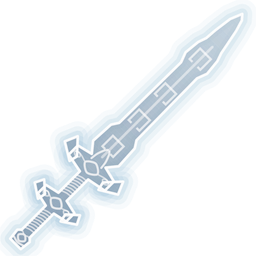
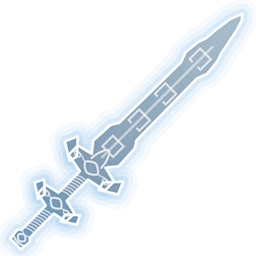
Call of Valor: the visuals are DONE - blue through the hilt, colour matched by measurement
The user's sign-off: "I think we are done with the visuals (I pick A)". Variant A -
katana tip, short kissaki - is the weapon.

HIS BLUE THROUGH THE HILT. A gradient of C_AZURE, the aura's own colour on his
armour, from the pommel up to the second crossguard and fading to nothing there.
Smoothstepped, because a straight ramp to zero leaves a band edge exactly where
two pieces of furniture already meet and reads as a drawing seam. The blue is
darkened but NOT greyed - greying it would have cancelled the request before it
drew a pixel.

THEN THREE ROUNDS OF COLOUR, EVERY ONE SETTLED BY MEASURING THE TEXTURES RATHER
THAN BY ARGUING ABOUT THEM.

1. "More opaque." Raised 104 -> 196 -> 220. But the first correction, 152, was
   chosen to match the CUIRASS'S OWN CONSTANT and was wrong: measured, the sword
   came back 173 against the cuirass's 215. The cuirass is not one fill - plate
   body, pectoral domes, creases, lit lips, rim, four or five translucent passes
   accumulating - while the blade is essentially one. THE SHARED CONSTANT IS NOT
   THE SHARED APPEARANCE.

2. "Still too ghostly, use the chestplate's colour." Sampling found the cause,
   and it was a request of their own two rounds earlier: the GREY was doing it.

       chestplate  (159,195,220)   a proper pale steel-blue
       sword       (168,186,202)   flatter, redder, far less blue

   Desaturating a translucent object pushes it TOWARD the mid-tone of the ground
[…]

Changed region(s): [[0.0625, 0.0625, 0.9375, 0.9375]]

diff --git a/Mods/Dovahkiin/CHANGELOG.md b/Mods/Dovahkiin/CHANGELOG.md
@@ -1,5 +1,25 @@
 # CHANGELOG
 
+## Call of Valor: the hero's blue through the hilt (2026-07-31)
+
+A gradient of his blue from the pommel up to the **second crossguard**, fading to nothing there.
+The blade above keeps the grey steel. Two knobs: `$HILT_BLUE_MIX` 0.55 at the pommel,
+`$HILT_BLUE_END` 0.352 where it reaches zero.
+
+**The blue is darkened but NOT greyed, and that is the point of adding it.** `$GREY_MIX` is what
+pulled the weapon toward steel in the first place; putting the blue through it as well would cancel
+the request before it drew a pixel. It takes `$VALUE_MUL` only, so it sits in the same value range
+as everything around it and reads as more *colour* rather than as a brighter patch.
+
+**`C_AZURE` specifically** — the aura's own colour on his armour, the most saturated blue he
+carries. The hilt is quoting a part of him rather than a blue picked because it looked nice.
+
+**Smoothstepped, not linear.** A straight ramp to zero leaves a visible band edge exactly where two
+pieces of furniture already meet, and that reads as a drawing seam rather than as colour running
+out.
+
+---
+
 ## Call of Valor: variant A settled, and the palette handed over properly (2026-07-31)
 
 **Variant A is the weapon** — katana tip, short kissaki. Settled by the user; B (glaive) and C
@@ -49,13 +69,64 @@ lips, then a rim — four or five translucent layers accumulating over one anoth
 is essentially one. **The shared constant is not the shared appearance.** Two pieces match when
 their *composited* results match, and that can only be established on the finished art.
 
-At 196 the blade measures **206 against the plate's 215**, inside 4%. Still translucent: the ground
-reads through both.
+At 196 the blade measured **206 against the plate's 215**, inside 4%. The user then asked for a bit
+more still, so parity turned out to be the waypoint rather than the destination: **220**, measuring
+**225 against 215**, puts the weapon slightly *above* his armour. Defensible on its own terms — a
+blade is a forged object where the plate is a translucent overlay on a body.
 
-### Greyer and slightly darker, weapon only
+**Still translucent, and that is the floor this must not cross.** "You can see the ground through
+it" is the one thing none of the pre-2026-07-30 attempts managed and the whole reason this file was
+rebuilt from scratch. Measured after every change rather than assumed — 225 of a possible 255.
 
-Asked for in two steps — "a tiny bit of grey", then "slightly grey-darker" — and landing at
-`$GREY_MIX = 0.30` with `$VALUE_MUL = 0.88`.
+### The grey went in, then came back out — and measurement is what settled it
+
+Asked for in two steps, "a tiny bit of grey" then "slightly grey-darker", reaching `$GREY_MIX 0.30`
+and `$VALUE_MUL 0.88`. The user then reported the weapon as **still too ghostly** and asked for the
+chestplate's colour instead. Those two requests pull against each other, so the textures were
+sampled rather than argued about:
+
+| | median RGB |
+|---|---|
+| chestplate | (159,195,220) — a proper pale steel-blue |
+| sword, greyed | (168,186,202) — flatter, redder, far less blue |
+
+**The grey was causing the very thing being complained about.** Desaturating a translucent object
+pushes it *toward the mid-tone of the ground behind it*, so it loses separation and reads as
+vapour — which is what "ghostly" describes. Opacity had already been raised twice by then and could
+not fix it, because opacity was never the problem.
+
+**The rule worth keeping: saturation is what separates a translucent object from lit ground. Value
+and alpha alone cannot do it.** This is the cousin of the additive-glow lesson — there, white light
+on brown ground read as cream; here, a desaturated body on brown ground read as nothing at all.
+
+`$GREY_MIX` is now **0.00** and `$VALUE_MUL` **0.90** — grey removed entirely, value trimmed only
+enough to sit on the plate's own brightness. The blade measured **(164,192,214)** against the
+plate's (159,195,220): within 6 in every channel. Both knobs are left in place at neutral rather
+than deleted, so the greyer look is one number away if it is ever wanted back.
+
+### Then the interior alone, down to the helmet's value
+
+Asked for as "as dark as the helmet", and the three pieces turn out to be further apart than they
+look:
+
+| | median RGB | luma |
+|---|---|---|
+| helmet | (151,166,179) | 164 |
+| chestplate | (159,195,220) | 189 |
+
+Mean channel ratio helm/sword gave **0.874**, and that is `$INTERIOR_MUL`. The blade now measures
+**(145,170,189), luma 166** against the helm's 164.
+
+**Value only — the helm's FLATNESS is deliberately not copied.** The helm is less saturated than
+the plate because its dome runs down to `C_DEEP` at the edges, but desaturation is precisely what
+made this weapon read as vapour two rounds earlier. Taking the helm's colour wholesale would have
+walked straight back into it. The ask was *darker*; darker is what it got, and the blade keeps a
+44-point channel spread against the helm's 28.
+
+**Applied to the body and the hilt's blue, NOT to the bloom or the rim.** The bloom is the halo
+outside the weapon and the rim is its luminous edge — neither is interior, and dimming them is how
+a spectre stops being legible on lit ground. The hilt blue does take it, since it is mixed *into*
+the body and would otherwise light the grip brighter than the blade it belongs to.
 
 **Two knobs, not one.** "Grey-darker" is two requests, and this project has already been caught
 treating saturation and value as a single lever. Kept apart, either can be retuned without
